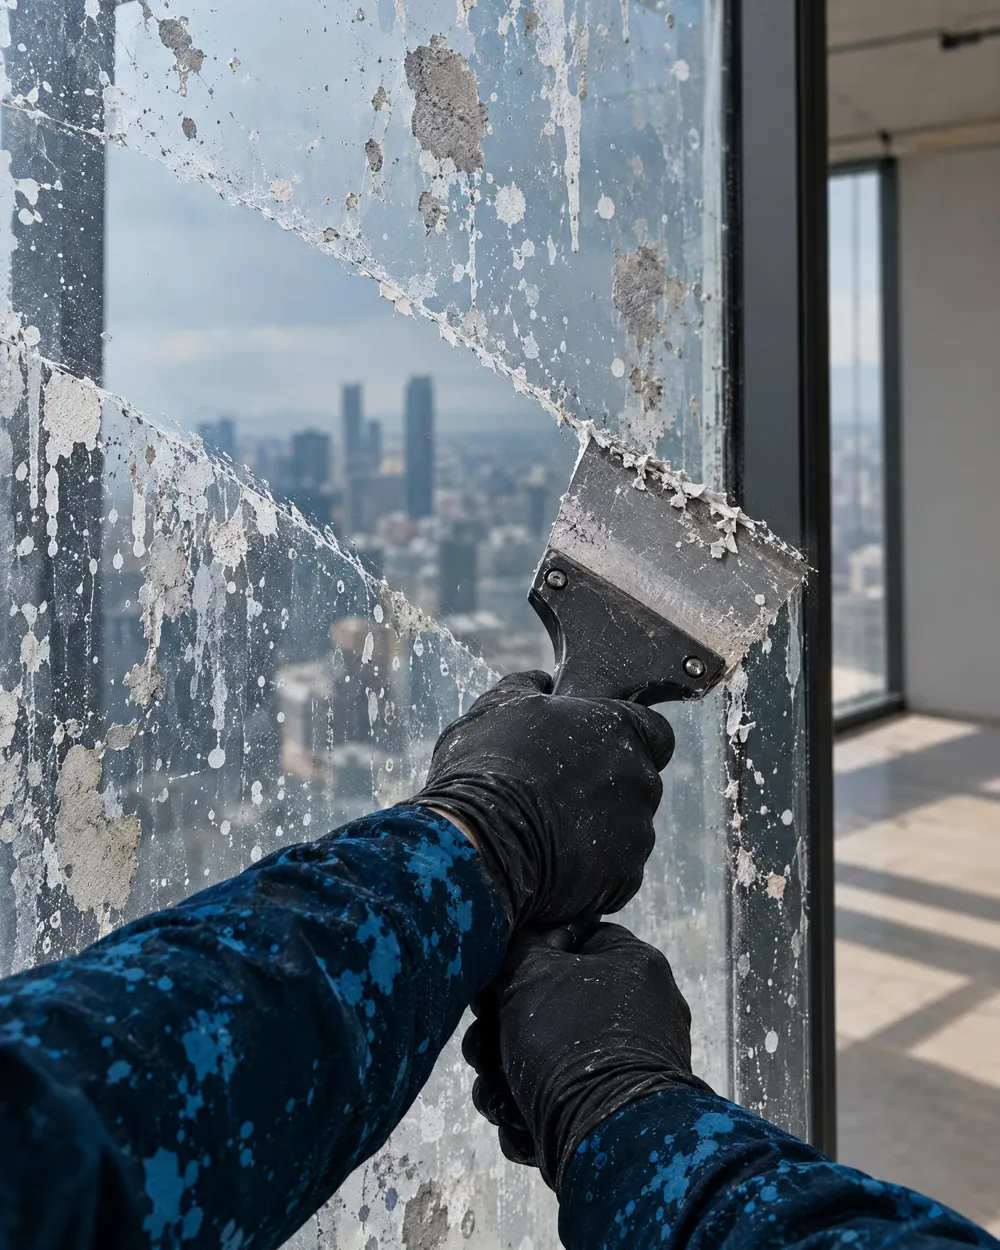
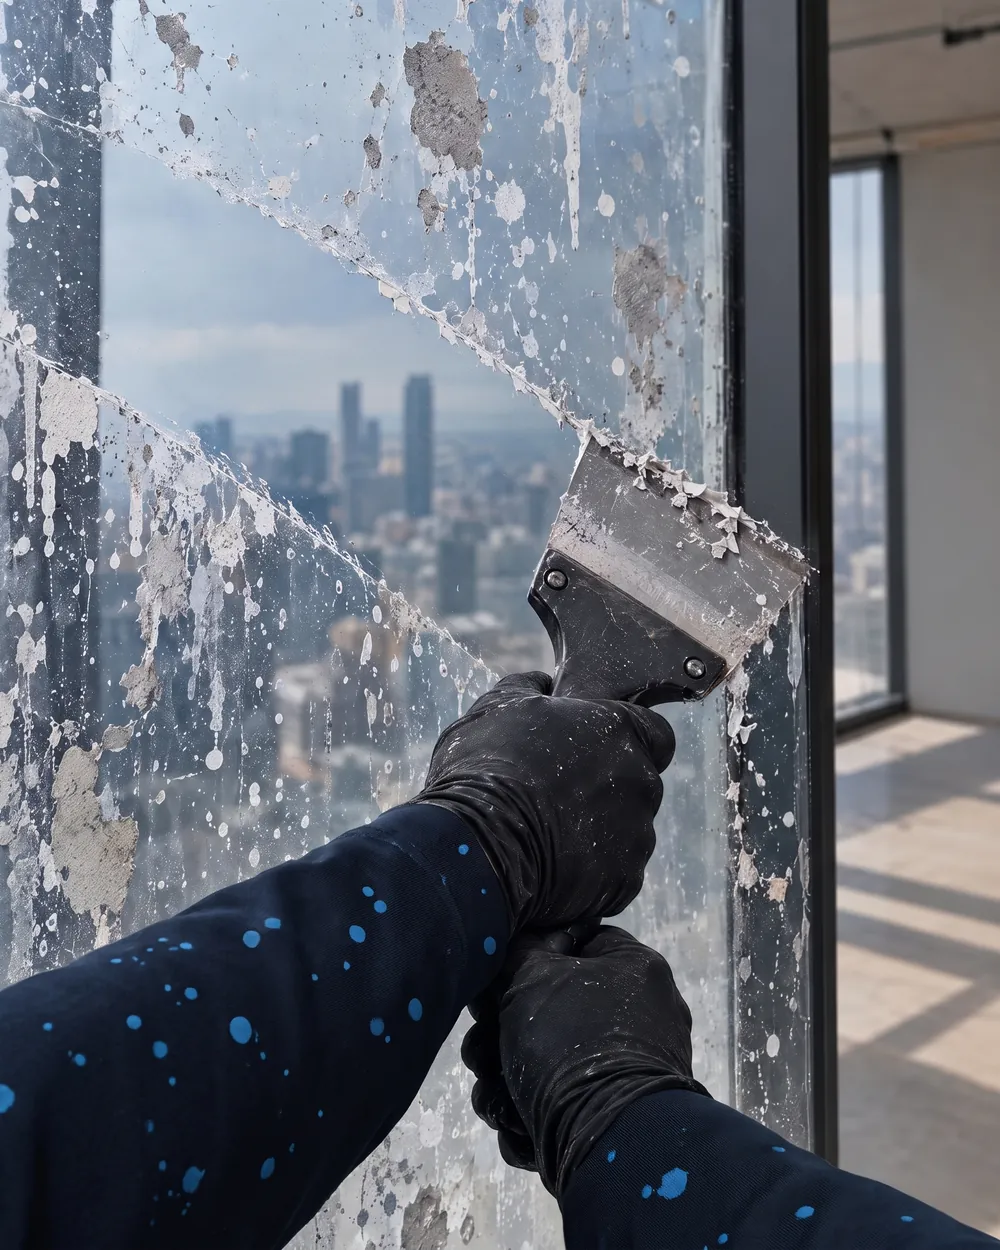
Comparador no toque so mexe com movimento pro lado; manga do pos-obra com respingos (05/11)

diff --git a/script.js b/script.js
@@ -84,11 +84,24 @@
       r.value = lim((ev.clientX - q.left) / q.width) * 100;
       r.dispatchEvent(new Event('input', { bubbles: true }));
     }
-    var arrastando = false;
-    ba.addEventListener('pointerdown', function (ev) { arrastando = true; ba.setPointerCapture(ev.pointerId); pelaPosicao(ev); });
-    ba.addEventListener('pointermove', function (ev) { if (arrastando) pelaPosicao(ev); });
-    ba.addEventListener('pointerup', function () { arrastando = false; });
-    ba.addEventListener('pointercancel', function () { arrastando = false; });
+    /* no dedo, só mexe depois de um movimento claramente pro lado: quem está
+       rolando a página não move a lâmina nem conta como uso */
+    var arrastando = false, inicio = null;
+    ba.addEventListener('pointerdown', function (ev) {
+      if (ev.pointerType === 'mouse') { arrastando = true; ba.setPointerCapture(ev.pointerId); pelaPosicao(ev); return; }
+      inicio = { x: ev.clientX, y: ev.clientY, id: ev.pointerId };
+    });
+    ba.addEventListener('pointermove', function (ev) {
+      if (inicio && !arrastando) {
+        var dx = Math.abs(ev.clientX - inicio.x), dy = Math.abs(ev.clientY - inicio.y);
+        if (dx > 8 && dx > dy * 1.5) { arrastando = true; ba.setPointerCapture(inicio.id); }
+        else if (dy > 8) inicio = null;
+      }
+      if (arrastando) pelaPosicao(ev);
+    });
+    function solta() { arrastando = false; inicio = null; }
+    ba.addEventListener('pointerup', solta);
+    ba.addEventListener('pointercancel', solta);
     if (calmo || !temIO) { por(50); return; }
     por(92);
     var o = new IntersectionObserver(function (es) {
